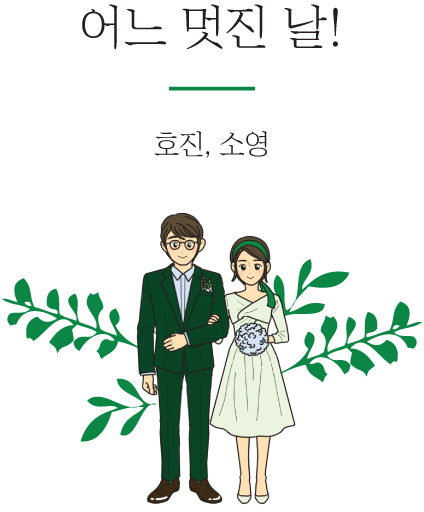
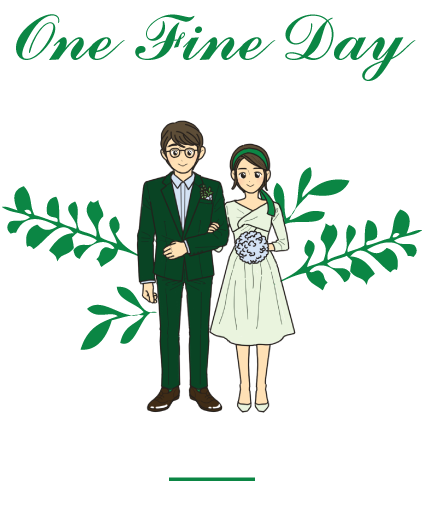
modify

diff --git a/css/common.css b/css/common.css
@@ -1,4 +1,4 @@
-@import url("https://fonts.googleapis.com/css?family=Varela+Round");
+008744@import url("https://fonts.googleapis.com/css?family=Varela+Round");
 html, body { margin: 0; padding: 0; }
 
 
@@ -11,28 +11,22 @@ a, div, p { font-family: AppleSDGothicNeo-Regular,Droid sans,Helvetica,sans-seri
 .tmenu .music_controller { float: left; }
 .tmenu .music_controller a { display: block; }
 .tmenu .music_controller img { display: block; width: 100px; }
-.tmenu .logo { float: right; }
+.tmenu .logo { float: right; margin: auto; width: 60%}
 .tmenu .logo img { display: block; width: 150px; }
 
 .main { position: relative; padding: 10px; }
 .main > img { display: block; width: 100%; }
 
 .weddinginfo { margin-bottom: 40px; }
-.weddinginfo .person:after { content: ''; display: block; clear: both; }
-.weddinginfo .person > div { width: 250px; margin: 0 auto; text-align: center; font-size: 15px; color: #919396; }
-.weddinginfo .person > div:first-child { margin-bottom: 10px; }
-.weddinginfo .person > div:after { content: ''; display: block; clear: both; }
-.weddinginfo .person > div div { line-height: 15px; }
-.weddinginfo .person > div div:first-child { float: left; }
-.weddinginfo .person > div div:last-child { float: right; }
+.weddinginfo .bloomAndBride {margin: auto; width: 65%; }
 .weddinginfo .dateinfo { margin-top: 50px; }
 .weddinginfo .dateinfo > div { text-align: center; font-size: 14px; }
-.weddinginfo .dateinfo .t_date { color: #F9A63F; font-family: 'Varela Round'; font-size: 20px; }
+.weddinginfo .dateinfo .t_date { color: #008744; font-family: 'Varela Round'; font-size: 20px; }
 .weddinginfo .dateinfo .t_location { color: #6D6E70; margin-top: 5px; }
 
-.dday_count { text-align: center; margin-bottom: 10px; color: #F9A63F; font-size: 20px; font-family: 'Varela Round'; font-weight: bold; }
+.dday_count { text-align: center; margin-bottom: 10px; color: #008744; font-size: 20px; font-family: 'Varela Round'; font-weight: bold; padding-bottom: 30px}
 
-.sgallery .t_main_image { margin-bottom: 5px; }
+.sgallery .t_main_image { margin-bottom: 5px; padding-top : 140px}
 .sgallery .t_main_image img { display: block; width: 100%; }
 .sgallery .t_images:after { content: ''; display: block; clear: both; }
 /*.sgallery .t_images a { display: block; width: 32.66%; float: left; box-sizing: border-box; margin-right: 1%; margin-bottom: 1%; }*/
@@ -57,12 +51,12 @@ a, div, p { font-family: AppleSDGothicNeo-Regular,Droid sans,Helvetica,sans-seri
 .section_group .section:last-child { margin-bottom: 0; }
 
 .section .t_tit { margin-bottom: 20px; position: relative; }
-.section .t_tit img { display: block; width: 40%; margin: 0 auto; }
+.section .t_tit img { display: block; margin: 0 auto; }
 
 .wmaps .map { margin-bottom: 10px; }
 .wmaps .map_address { margin-bottom: 40px; }
 .wmaps .map_address > strong, .wmaps .map_address > span { display: block; }
-.wmaps .map_address > strong { color: #F9A63F; font-size: 15px; margin-bottom: 5px; }
+.wmaps .map_address > strong { color: #008744; font-size: 15px; margin-bottom: 5px; }
 .wmaps .map_address > span { font-size: 12px; color: #404041; margin-bottom: 10px; }
 .wmaps .map_address .map_user { color: #808080; font-size: 12px; }
 .wmaps .map_icons { margin-bottom: 40px; }

diff --git a/index.html b/index.html
@@ -77,16 +77,7 @@
 			</div>
 
 			<div class="weddinginfo">
-				<div class="person">
-					<div>
-						<div><img src="img/01_02.png" alt="" height="15"></div>
-						<div>장세관</div>
-					</div>
-					<div>
-						<div><img src="img/01_03.png" alt="" height="15"></div>
-						<div>남유미</div>
-					</div>
-				</div>
+				<div class="bloomAndBride"><img src="img/01_02.png" alt=""></div>
 				<div class="dateinfo">
 					<div class="t_date">2017.09.10. 13:30</div>
 					<div class="t_location">양재시민의 숲 결혼식장</div>
@@ -94,7 +85,7 @@
 			</div>
 
 			<div class="dday_count">
-				<img src="img/main_dday.png" alt="" height="12"> - </div>
+				<img src="img/main_dday.png" alt=""> </div>
 
 			<!--신랑,신부 전화및 문자-->
 			<div class="icons_tel">
